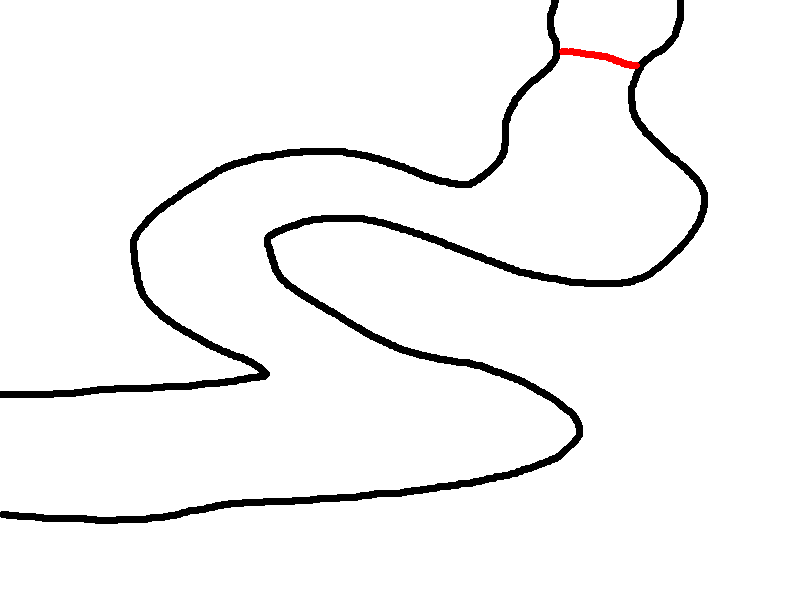
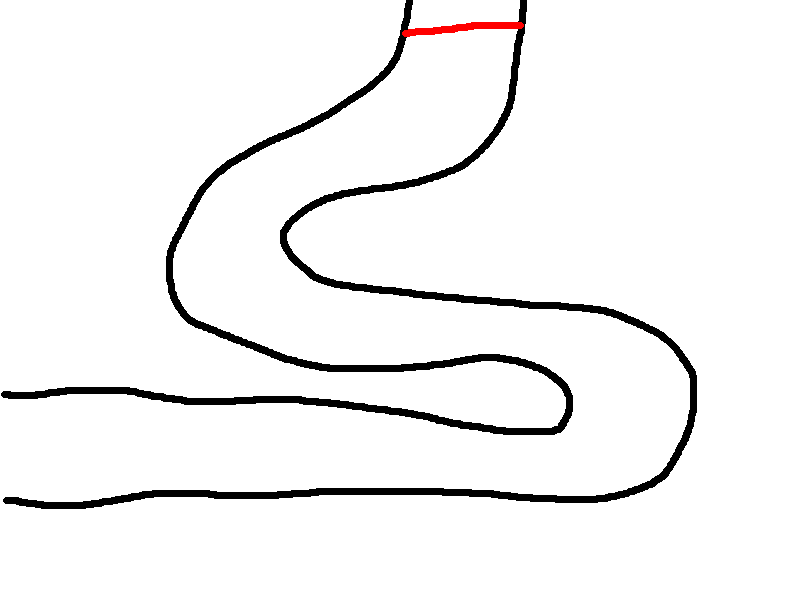
savemodel edit

diff --git a/src/main.py b/src/main.py
@@ -41,6 +41,10 @@ def agent_touch_green_spot(agent_x, agent_y, green_spots, canvas, draw_image):
             return 100  # Reward for touching a green spot
     return 0
 
+def save_model(model):
+    model.save("src/upmodel.keras")
+    print("Model saved to src/upmodel.keras")
+
 def run_simulation(agent):
     running = True
     clock = pygame.time.Clock()
@@ -56,6 +60,9 @@ def run_simulation(agent):
         for event in pygame.event.get():
             if event.type == pygame.QUIT:
                 running = False
+            # Check for S key press to save the model
+            if event.type == pygame.KEYDOWN and event.key == pygame.K_s:
+                save_model(agent.model)
 
         if game_active:
             agent.update()
@@ -65,7 +72,7 @@ def run_simulation(agent):
             screen.blit(timer_text, (20, 20))
             reward_text = timer_font.render(f"Reward: {agent.calculate_step_reward():.2f}", True, (0, 0, 0))
             screen.blit(reward_text, (SCREEN_WIDTH - reward_text.get_width() - 20, SCREEN_HEIGHT - reward_text.get_height() - 20))
-            if elapsed_seconds >= 15: 
+            if elapsed_seconds >= 30: 
                 if elapsed_seconds >= 30:
                     agent.active = False
                 if agent.speed < 0.01:

diff --git a/src/Agent.py b/src/Agent.py
@@ -23,7 +23,7 @@ class Agent:
     def __init__(self, track, model: Model,weights,exploration):  # Add type hint for model
         self.track = track
         self.x_initial = 0
-        self.y_initial = 420
+        self.y_initial = 460
         self.x=self.x_initial
         self.y=self.y_initial
         self.displacements = []  # Initialize self.displacements as an empty list
@@ -300,8 +300,10 @@ class Agent:
 
     def inc_speed(self):
         # Increase speed by 0.5
-        self.speed = min(10, self.speed+0.1)  # Ensure speed doesn't exceed 7.5
+        
+        self.speed = min(10, self.speed+0.13)  # Ensure speed doesn't exceed 7.5
 
     def dec_speed(self):
+        
         # Decrease speed by 0.5, ensuring it doesn't drop below zero
         self.speed = max(0, self.speed - 0.2)